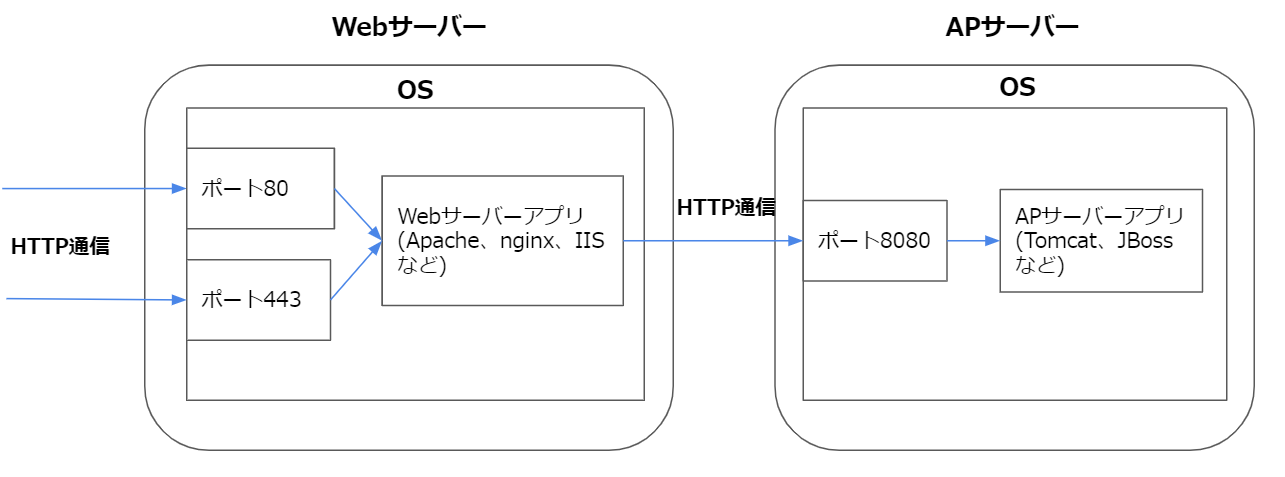
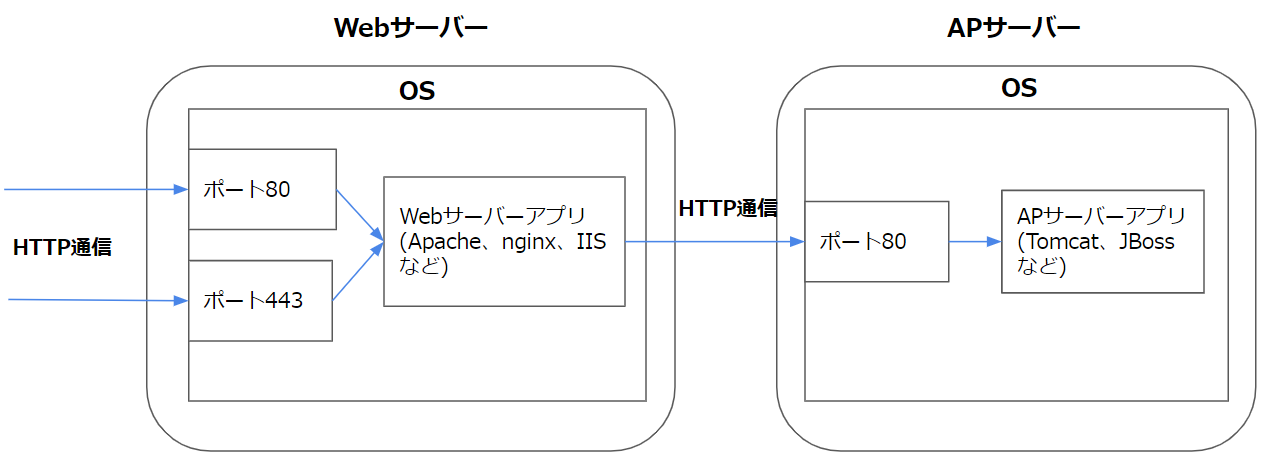
追記

diff --git a/02_Webシステム概要/3_1.Webサーバーの構成.md b/02_Webシステム概要/3_1.Webサーバーの構成.md
@@ -295,12 +295,12 @@ WebサーバーとAPサーバーを別のサーバーホストに配置します
 Webサーバーアプリにはリクエストを転送する為の設定を記述できるので、そこに転送先のAPサーバーのアドレスとポートを記載します。   
 例えばnginxの場合、設定ファイルに以下のような記述を追加します。   
 ```nginx
-#リクエストパスが/sampleの場合の転送先を設定する場合
-location /sample/ {
+# リクエストの転送設定
+location / {
     # リクエストを転送する先（APサーバー）のURLを指定
-    proxy_pass http://myAPServer:80/sample/; 
+    proxy_pass http://myAPServer:80; 
 
-    # リクエストヘッダーの追加なども記載可能
+    # リクエストヘッダーの追加なども可能
     proxy_set_header host $host;
     ～
 }
@@ -320,7 +320,8 @@ location /sample/ {
 ### 1台のサーバーに同居させる場合  
 WebサーバーとAPサーバーを1台のサーバーホストに配置します。  
 
-この場合、Webサーバーは80(HTTP)、443(HTTPS)ポートをリッスンし、APサーバーは空いている適当なポートをリッスンします。(8080や8443が使われることが多いです)  
+この場合、Webサーバーは80(HTTP)、443(HTTPS)ポートをリッスンし、APサーバーは空いている適当なポートをリッスンします。  
+(8080や8443が使われることが多いです)  
 Webサーバーはlocalhostに対してリクエストを転送します。  
 
 <img src="画像/WEBサーバーの構成_APサーバーとWebサーバー_1台構成.png" style="width:740px;">  
@@ -328,12 +329,12 @@ Webサーバーはlocalhostに対してリクエストを転送します。
 
 上で例に挙げたnginxの設定ファイルは以下のようになります。    
 ```nginx
-#リクエストパスが/sampleの場合の転送先を設定する場合
-location /sample/ {
+# リクエストの転送設定
+location / {
     # リクエスト転送先（APサーバー）をlocalhostで指定
-    proxy_pass http://localhost:8080/sample/; 
+    proxy_pass http://localhost:8080/; 
 
-    # リクエストヘッダーの追加なども記載可能
+    # リクエストヘッダーの追加なども可能
     proxy_set_header host $host;
     ～
 }
